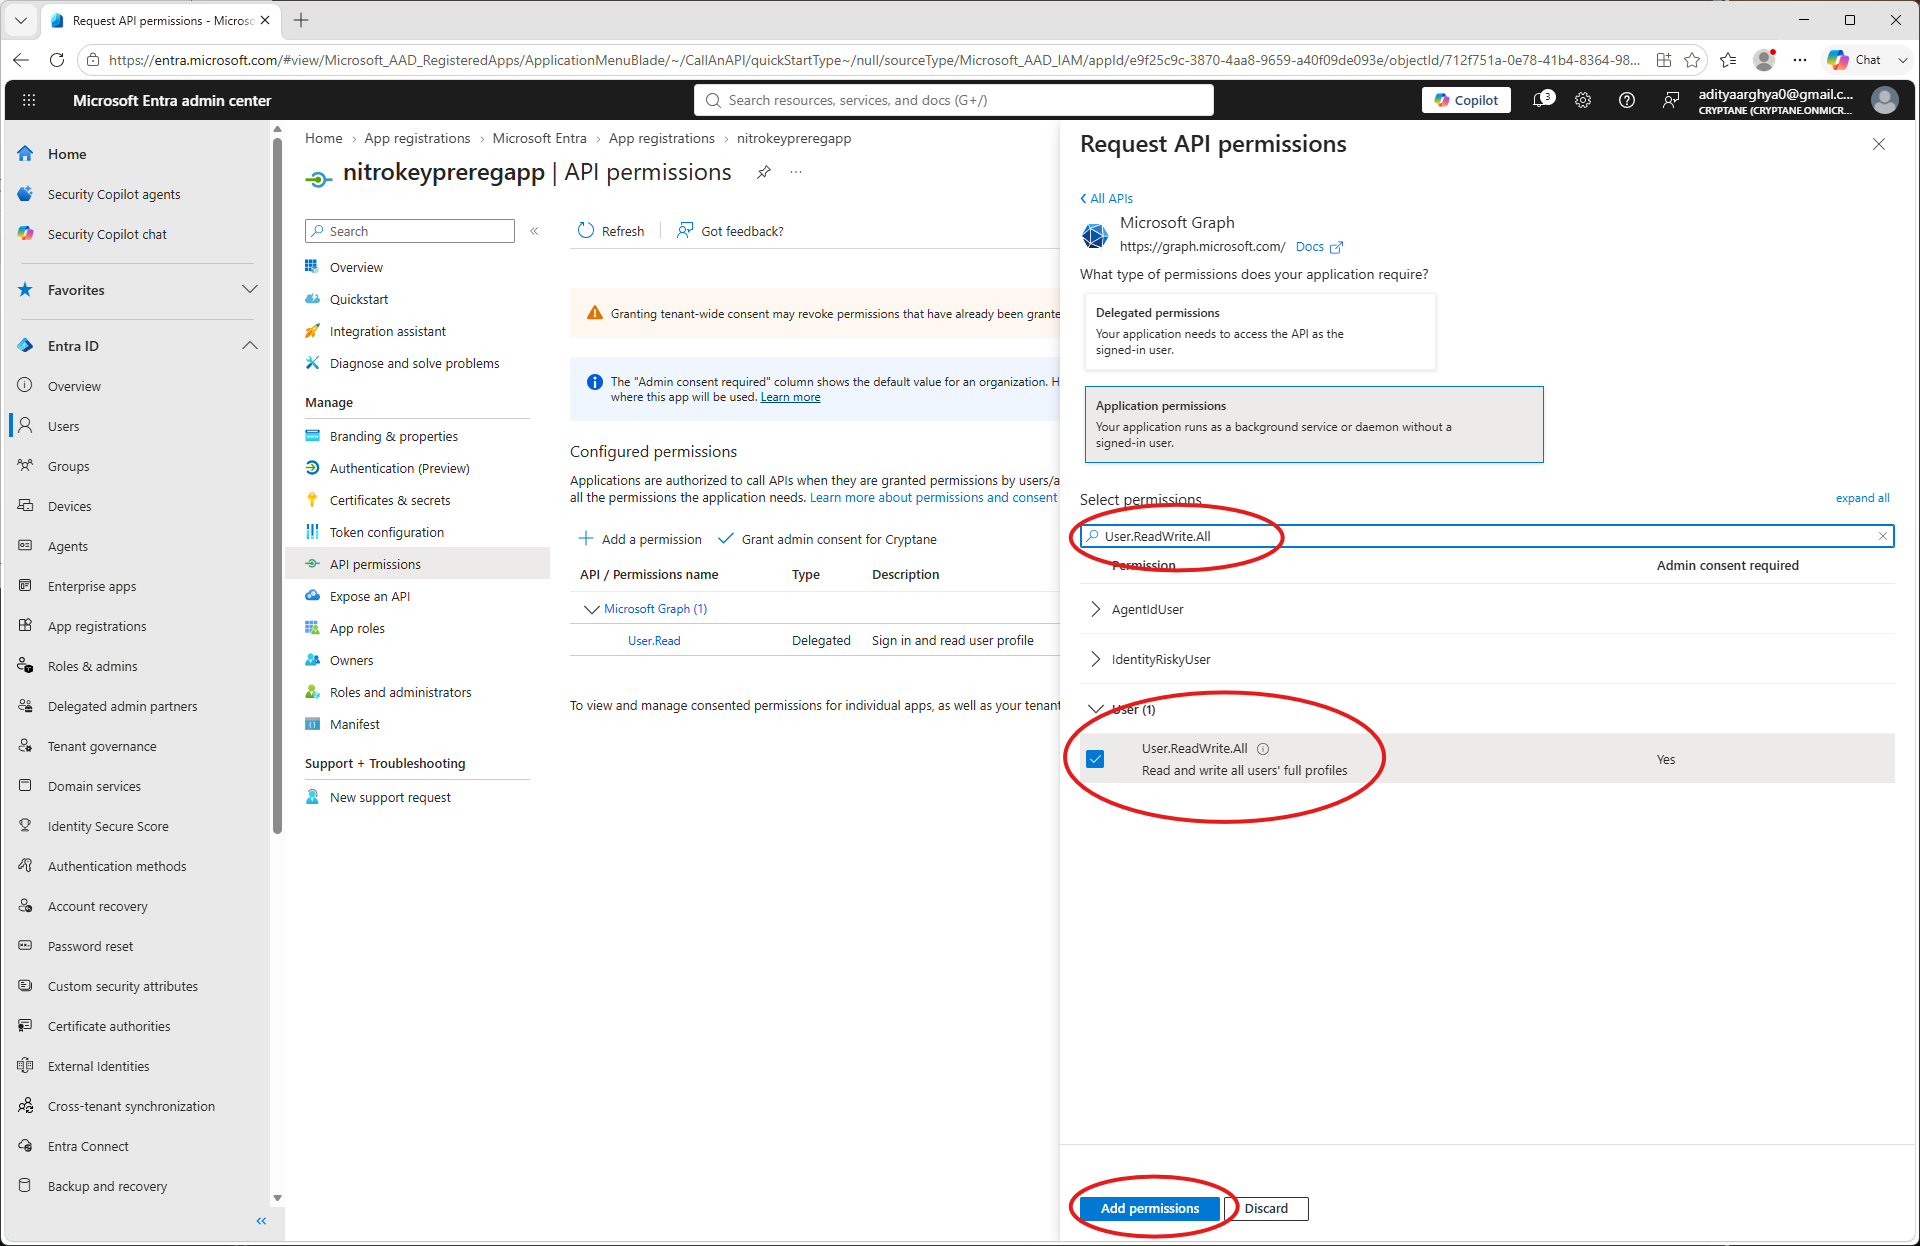
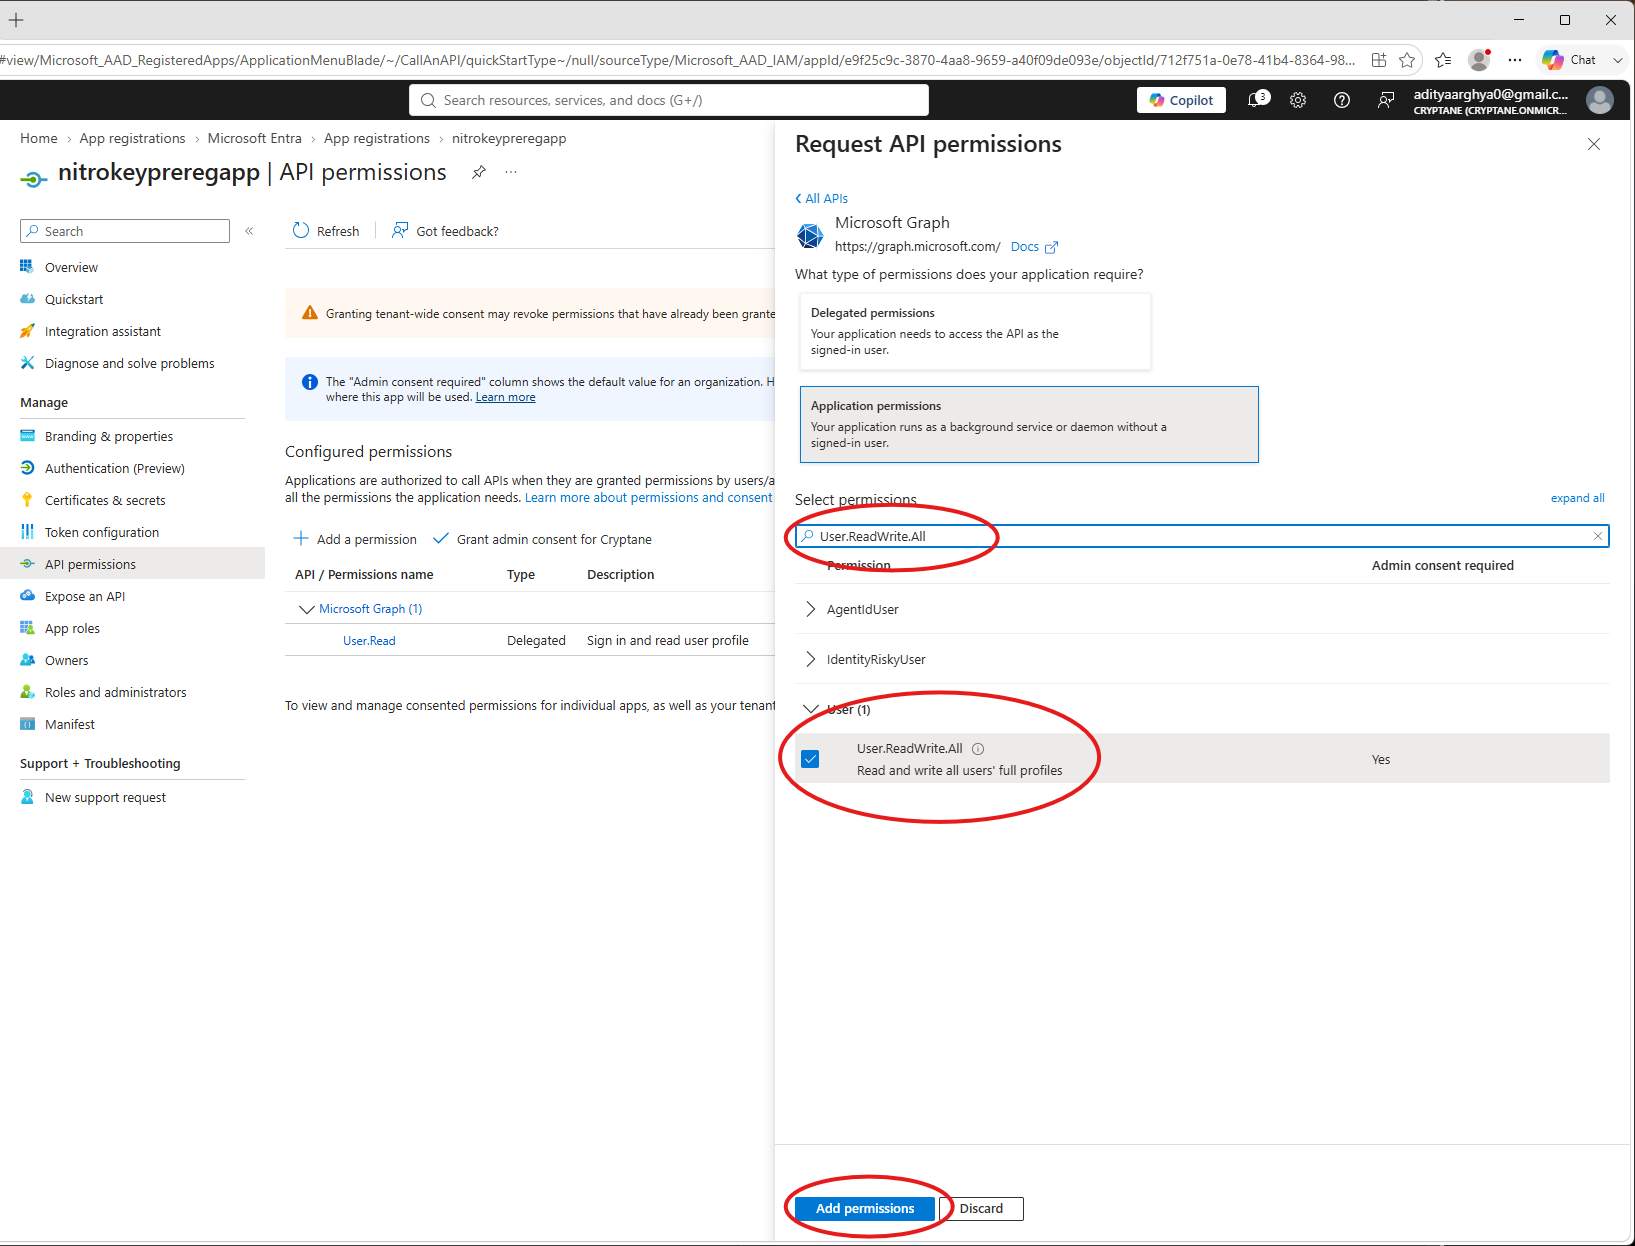
Entra ID: Crop images (#629)

diff --git a/source/components/nitrokeys/features/fido2/provision-entra.rst b/source/components/nitrokeys/features/fido2/provision-entra.rst
@@ -130,9 +130,6 @@ A Microsoft Entra Application is required to allow for programmatic registration
             "domain": "Cryptane.onmicrosoft.com"
         }
 
-    .. figure:: ./images/provision-entra/configjson.png
-        :alt: App home
-
 Usage
 -----
 
@@ -145,8 +142,16 @@ You may use the `pynitrokey` utility to provision a Nitrokey for an user in your
 Here the `<username>` could be the Email ID of the user (User principal in terms of Microsoft) or a part of it till before the `@` sign.
 The `--create-user` flag directs the tool to create the user if it does not exist in the Entra Tenant.
 
-    .. figure:: ./images/provision-entra/terminal.png
-        :alt: App home
+    .. code-block:: shell-session
+
+        $ nitropy fido2 provision-credential entra -c config.json aditya --create-user
+        Command line tool to interact with Nitrokey devices 0.12.3
+        Warning: It is recommended to execute nitropy with admin privileges to be able to access Nitrokey 3 and Nitrokey FIDO 2 devices.
+        Waiting 5 secs for Graph API to update
+        User aditya created on Entra
+        Enter PIN:
+        Touch your authenticator device now...
+        Entra credential for aditya pre-registered on NK3 A56F0 with Credential ID owBYLNXsrDZ104I2MyCtuxmXKAd0Um56t3Byx5VfMz-Vs1Azy1re4Rdf-foMsc7vAUw7lJgCoG1VSdl2mBoCUHWGpTH-YkjEJ4UC4YlIEdk1.
 
 Verification
 ------------
